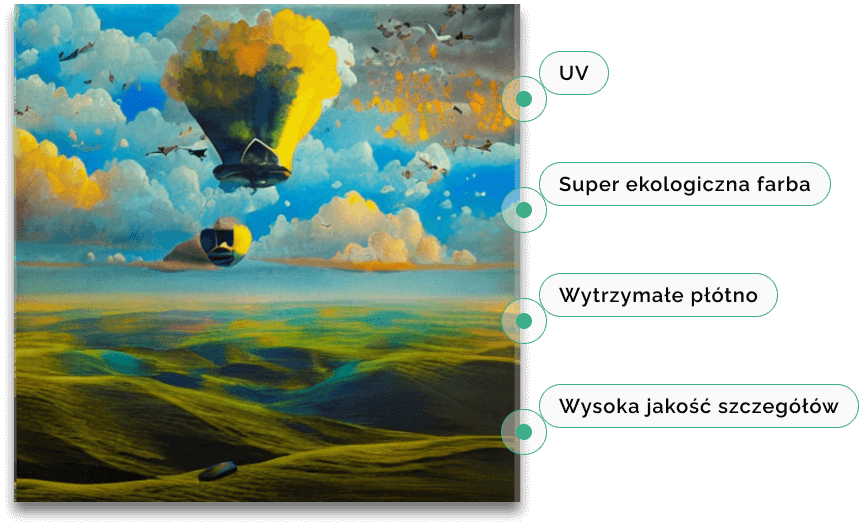
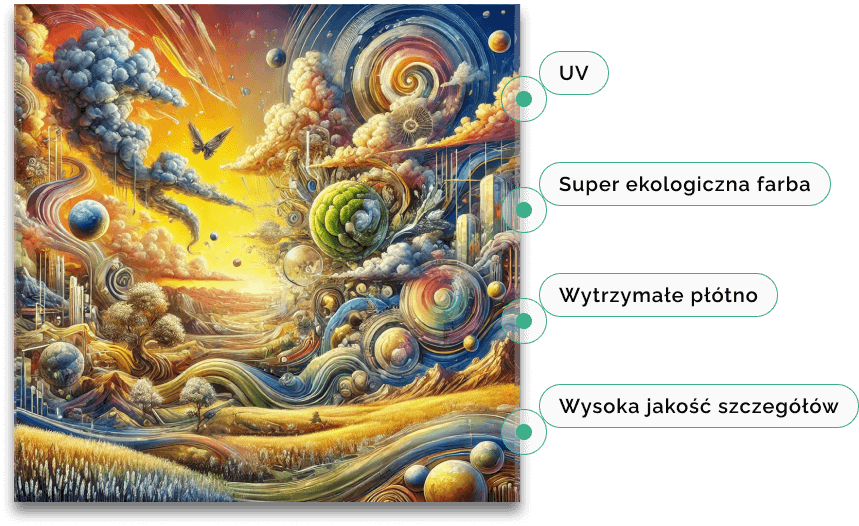
refactor(home): images changes

diff --git a/src/app/page.tsx b/src/app/page.tsx
@@ -84,9 +84,9 @@ const Home = () => {
         </AppContainer.Content>
         <div className="absolute right-0 top-0 hidden aspect-square h-full w-full max-w-[500px] object-cover lg:block min-[1100px]:max-w-[600px] xl:max-w-[800px] 2xl:max-w-[900px]">
           <div className="absolute bottom-5 left-5 right-5 top-5 z-10 flex items-end justify-start rounded-xl border-2 border-neutral p-5">
-            <p className="font-bold text-neutral">
-              &quot;Nowoczesny obraz, subtelnie oświetlony, z delikatnymi refleksami światła podkreślającymi
-              detale.&quot;
+            <p className="font-semibold text-neutral">
+              &quot;Abstrakcyjny obraz, przedstawiający płynne linie i gradacje kolorów, tworzące harmonijną i
+              dynamiczną kompozycję.&quot;
             </p>
           </div>
           <Image fill alt="Przykładowy wygenerowany obraz" className="object-cover" src="/home-hero-image.png" />
@@ -94,8 +94,9 @@ const Home = () => {
       </AppContainer>
       <div className="relative h-[400px] w-full bg-[radial-gradient(169.40%_89.55%_at_94.76%_6.29%,rgba(0,0,0,0.40)_0%,rgba(255,255,255,0.00)_100%)] sm:h-[500px] lg:hidden">
         <div className="absolute bottom-2.5 left-2.5 right-2.5 top-2.5 z-10 flex items-end justify-start rounded-xl border-2 border-neutral p-2.5">
-          <p className="font-bold text-neutral">
-            &quot;Nowoczesny obraz, subtelnie oświetlony, z delikatnymi refleksami światła podkreślającymi detale.&quot;
+          <p className="font-semibold text-neutral">
+            &quot;Abstrakcyjny obraz, przedstawiający płynne linie i gradacje kolorów, tworzące harmonijną i dynamiczną
+            kompozycję.&quot;
           </p>
         </div>
         <Image fill alt="Przykładowy wygenerowany obraz" className="object-cover" src="/home-hero-image.png" />
@@ -113,7 +114,13 @@ const Home = () => {
               description="Nie musisz zakładać konta, kliknij kup i jedym obraz, asdfff"
               title="Obraz jest Twój"
             >
-              <Image alt="Wygenerowane zdjęcie" height={111} src="/home-generate-result.png" width={111} />
+              <Image
+                alt="Wygenerowane zdjęcie"
+                className="rounded-xl border border-[#57C6A3]"
+                height={111}
+                src="/home-generate-result.webp"
+                width={111}
+              />
             </GenerateStep>
           </div>
         </AppContainer.Content>
